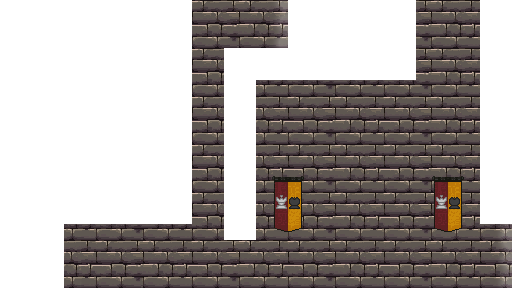
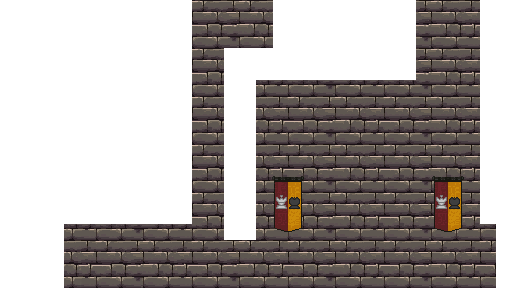
Añadidos fondos de la torre, pasillo, y biblioteca

Changed region(s): [[0.9688, 0.75, 1.0, 1.0], [0.5312, 0.0, 0.5625, 0.1875]]

diff --git a/src/game/__main__.py b/src/game/__main__.py
@@ -47,18 +47,40 @@ def main():
 
 	assert pg.image.get_extended()
 
+	# Objetos independientes de la sala
 	obj.load('Cam', 0, 0)
-	obj.load('VisibleArea', 0, 0)
-	obj.load('VisibleArea', 1, 0)
-	obj.load('TileMap', 0, 0)
-	obj.load('TileCollision', 0, 0)
-	obj.load('TileMap', 1, 0)
-	obj.load('TileCollision', 1, 0)
-	obj.load('Bckgnd', 0, 0)
-	obj.load('Bckgnd', 1, 0)
-	obj.load('BckgndParallax', 0, 0)
 	obj.load('Control', 0, 0)
 	player = obj.load('Player', 0, 0)
+
+	# Objetos sala jardin
+	obj.load('VisibleArea', 0, 0)
+	obj.load('TileMap', 0, 0)
+	obj.load('TileCollision', 0, 0)
+	obj.load('Bckgnd', 0, 0)
+	obj.load('BckgndParallax', 0, 0)
+
+	# Objetos sala central del castillo
+	obj.load('VisibleArea', 1, 0)
+	obj.load('TileMap', 1, 0)
+	obj.load('TileCollision', 1, 0)
+	obj.load('Bckgnd', 1, 0)
+	obj.load('Bckgnd', 2, 0)
+	obj.load('BckgndParallax', 0, 0)
+
+	# Objetos sala torre
+	obj.load('VisibleArea', 2, 0)
+	obj.load('Bckgnd', 2, 0)
+	obj.load('Bckgnd', 3, 0)
+
+	# Objetos sala pasillo
+	obj.load('VisibleArea', 3, 0)
+	obj.load('VisibleArea', 4, 0)
+	obj.load('Bckgnd', 4, 0)
+
+	# Objetos sala biblio
+	obj.load('Bckgnd', 5, 0)
+	obj.load('VisibleArea', 5, 0)
+
 
 	# Instanciar player para poder llamar las funciones
 
